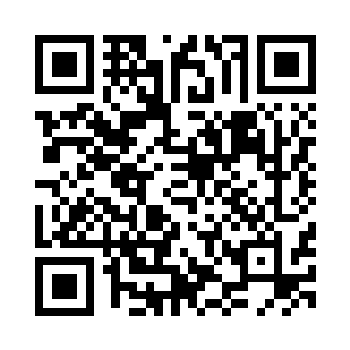
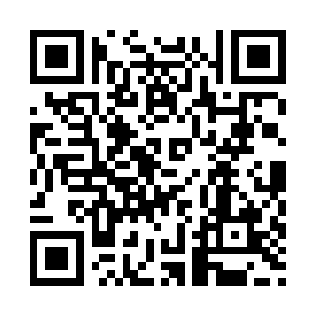
QR Code Generation functionality has been added.

diff --git a/index.html b/index.html
@@ -4,6 +4,7 @@
     <meta charset="UTF-8">
     <meta name="viewport" content="width=device-width, initial-scale=1.0">
     <title>Wi-Fi QR Code Generator</title>
+    <script src="https://cdnjs.cloudflare.com/ajax/libs/qrcodejs/1.0.0/qrcode.min.js"></script>
     <script src="https://kit.fontawesome.com/d61f8af839.js" crossorigin="anonymous"></script>
     <link rel="stylesheet" href="style.css">
 </head>
@@ -18,11 +19,11 @@
                 <p class="inputDivTitle">Your Network Details:</p>
                 <div class="wifiName">
                     <label for="wifi-name"><i class="fa-solid fa-wifi"></i> Wi-Fi Network Name (ID):</label>
-                    <input type="text" name="wifi-name" id="wifi-name">
+                    <input type="text" name="wifiName" id="wifiName">
                 </div>
                 <div class="wifi-input">
                     <label for="wifiPass"><i class="fa-solid fa-key"></i> Wi-Fi Password:</label>
-                    <input type="text" name="wifi-pass" id="wifi-pass">
+                    <input type="text" name="wifiPass" id="wifiPass">
                 </div>
 
                 <hr>
@@ -37,18 +38,18 @@
                         <p class="wifiTypeTitle"><i class="fa-solid fa-gear"></i> Wi-Fi Type:</p>
                         <div class="wifiType">
                             <div>
-                                <input type="radio" name="wifiType" id="wpa" checked>
+                                <input type="radio" name="encryption" id="wpa" value="WPA" checked>
                                 <label for="wpa">WPA</label>
                             </div>
                             <div>
-                                <input type="radio" name="wifiType" id="wep">
+                                <input type="radio" name="encryption" id="wep" value="WEP">
                                 <label for="wep">WEP</label>
                             </div>
                         </div>
                     </div>
                 </div>
 
-                <div id="qrcodebtn"><button>Generate Wi-Fi QR Code</button></div>
+                <div id="qrcodebtn" onclick="generateQRCode()"><button>Generate Wi-Fi QR Code</button></div>
             </div>
         </div>
 
@@ -57,9 +58,10 @@
                 <p>Your Wi-Fi QR Code</p>
 
                 <div>
-                    <img src="example.png" alt="Example QR Code">
+                    <div id="qrCodeImage"><img id="exampleImage" src="example.png" alt="Example QR Code"></div>
+                    
                     <div id="downloadbtn">
-                        <button disabled><i class="fa-solid fa-download"></i> Download Wi-Fi QR Code</button>
+                        <button id="downloadQRCode" disabled><i class="fa-solid fa-download"></i> Download Wi-Fi QR Code</button>
                     </div>
                 </div>
 
@@ -67,6 +69,67 @@
         </div>
 
     </div>
+
+    <script>
+        function generateQRCode() {
+            // Get Wi-Fi details from the inputs
+            var wifiName = document.getElementById("wifiName").value;
+            var wifiPass = document.getElementById("wifiPass").value;
+            var encryption = document.querySelector('input[name="encryption"]:checked').value;
+
+            // Format the Wi-Fi credentials
+            var wifiString = `WIFI:S:${wifiName};T:${encryption};P:${wifiPass};;`;
+
+            var qrCodeImage = document.getElementById("qrCodeImage");
+            qrCodeImage.innerHTML = ""; // Clear any previous QR code
+
+            // Generate the QR code
+            var qrcode = new QRCode(qrCodeImage, {
+                text: wifiString,
+                width: 256,
+                height: 256,
+            });
+
+            // Add padding after QR code is generated
+            setTimeout(function () {
+                // Access the generated canvas element
+                var canvas = qrCodeImage.querySelector("canvas");
+                if (canvas) {
+                    // Create a new canvas with padding
+                    var paddedCanvas = document.createElement("canvas");
+                    var padding = 30; // 30px padding
+
+                    // Set the size of the new canvas (original size + padding)
+                    paddedCanvas.width = canvas.width + padding * 2;
+                    paddedCanvas.height = canvas.height + padding * 2;
+
+                    var ctx = paddedCanvas.getContext("2d");
+
+                    // Fill with a white background
+                    ctx.fillStyle = "#ffffff";
+                    ctx.fillRect(0, 0, paddedCanvas.width, paddedCanvas.height);
+
+                    // Draw the original QR code onto the new canvas with padding
+                    ctx.drawImage(canvas, padding, padding);
+
+                    // Replace the original canvas with the padded canvas
+                    qrCodeImage.innerHTML = ""; // Clear the div
+                    qrCodeImage.appendChild(paddedCanvas);
+
+                    // Enable the download button and add download functionality
+                    var downloadButton = document.getElementById("downloadQRCode");
+                    downloadButton.disabled = false;
+                    downloadButton.onclick = function () {
+                        var dataUrl = paddedCanvas.toDataURL("image/png");
+                        var link = document.createElement('a');
+                        link.href = dataUrl;
+                        link.download = 'wifi-qrcode.png';
+                        link.click();
+                    };
+                }
+            }, 10); // Small delay to ensure the QR code is generated
+        }
+    </script>
     
 </body>
 </html>

diff --git a/style.css b/style.css
@@ -117,7 +117,7 @@ body {
     margin-bottom: 0;
 }
 
-.qrCodeDiv img {
+#exampleImage {
     opacity: 0.33;
     width: 20rem;
     height: 20rem;
